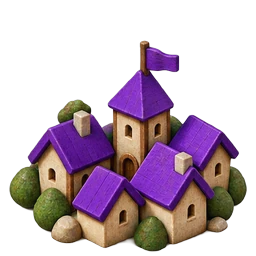
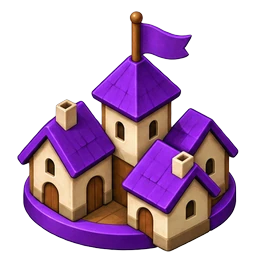
Siedlungen & Städte v3 (farbiger Sockel) eingebunden
Claude-Session: https://claude.ai/code/session_011VBPhhfqbmJRD4SaiEULj2

diff --git a/public/js/ui/assets.js b/public/js/ui/assets.js
@@ -92,8 +92,8 @@ export async function setArtStyle(id) {
 // Sichtbarer Inhalt (Bildbereich ohne transparenten Rand), in Bildpixeln – für die Platzierung auf dem Brett.
 export const PIECE_BOX = {
   // w/h = Bildgröße, l/r = sichtbarer Inhalt waagerecht, b = unterste sichtbare Zeile, target = Breite des Inhalts auf dem Brett (Kante = 1)
-  settlement: { w: 256, h: 256, l: 8, r: 248, b: 252, target: 0.96 },
-  city: { w: 256, h: 256, l: 12, r: 244, b: 252, target: 1.2 },
+  settlement: { w: 256, h: 256, l: 14, r: 241, b: 252, target: 0.9 },
+  city: { w: 256, h: 256, l: 20, r: 236, b: 252, target: 1.05 },
 };
 function load(src) {
   return new Promise((resolve) => {

diff --git a/public/assets/README.md b/public/assets/README.md
@@ -9,7 +9,7 @@ Illustrierte Grafiken aus dem **Community Asset Pack** und dem **Devcards Pack**
 
 | Ordner | Inhalt | Verwendung |
 | --- | --- | --- |
-| `illustrated/pieces/` | Siedlung und Stadt (256 px, v2 aus dem Siedlungs-/Städte-Paket, aus den 6er-Sheets geschnitten) in 6 Spielerfarben (Straßen werden als SVG gezeichnet, siehe `js/ui/road.js`) | Spielfiguren auf dem Brett, Vorschau beim Bauen |
+| `illustrated/pieces/` | Siedlung und Stadt (256 px, v3 aus dem Paket „Siedlungen & Städte v3“ mit farbigem Sockel, auf 256 px vereinheitlicht) in 6 Spielerfarben (Straßen werden als SVG gezeichnet, siehe `js/ui/road.js`) | Spielfiguren auf dem Brett, Vorschau beim Bauen |
 | `art-v2/resources/`, `art-v2/harbors/`, `art-v2/fog/` | Neue Rohstoffe, Hafenmedaillons (3:1 und 5× 2:1), Nebelkachel | Felder, Rohstoffkarten, Chips, Häfen, Nebel |
 | `hexbg/` | Komplette Feld-Hintergründe (Wald, Weide, Lehm, Getreide, Erz, Wahlfeld) aus *Catan Settlements, Cities & Backgrounds v1* (reduzierte Varianten mit freier Mitte für die Zahl); die Wüste stammt aus *Catan Hex Backgrounds v1*; auf 440 px zugeschnitten | Felder im Stil „Illustriert“, Zahl liegt mittig, keine Feld-Icons |
 | `vector-svg/` | Pfad-basierte SVG-Variante derselben Motive | Grafikstil „Vektor“ |
